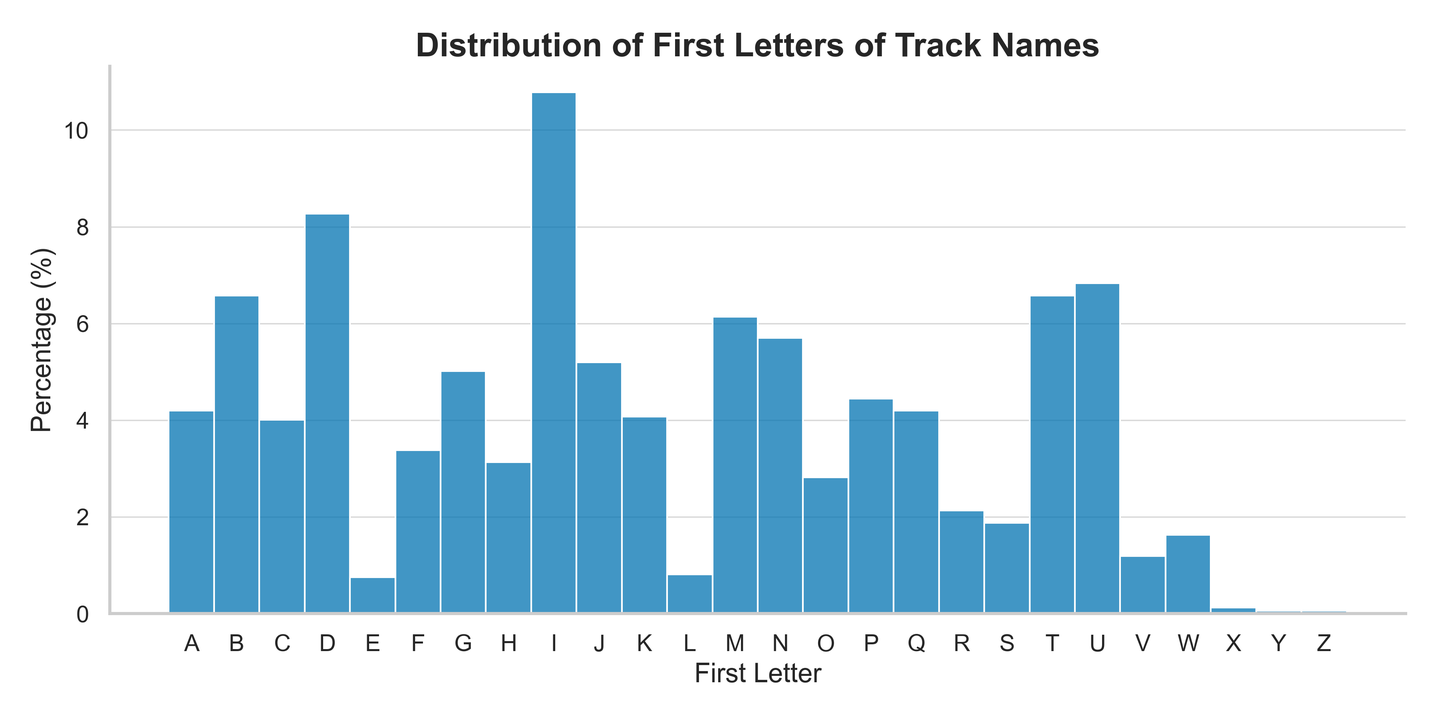
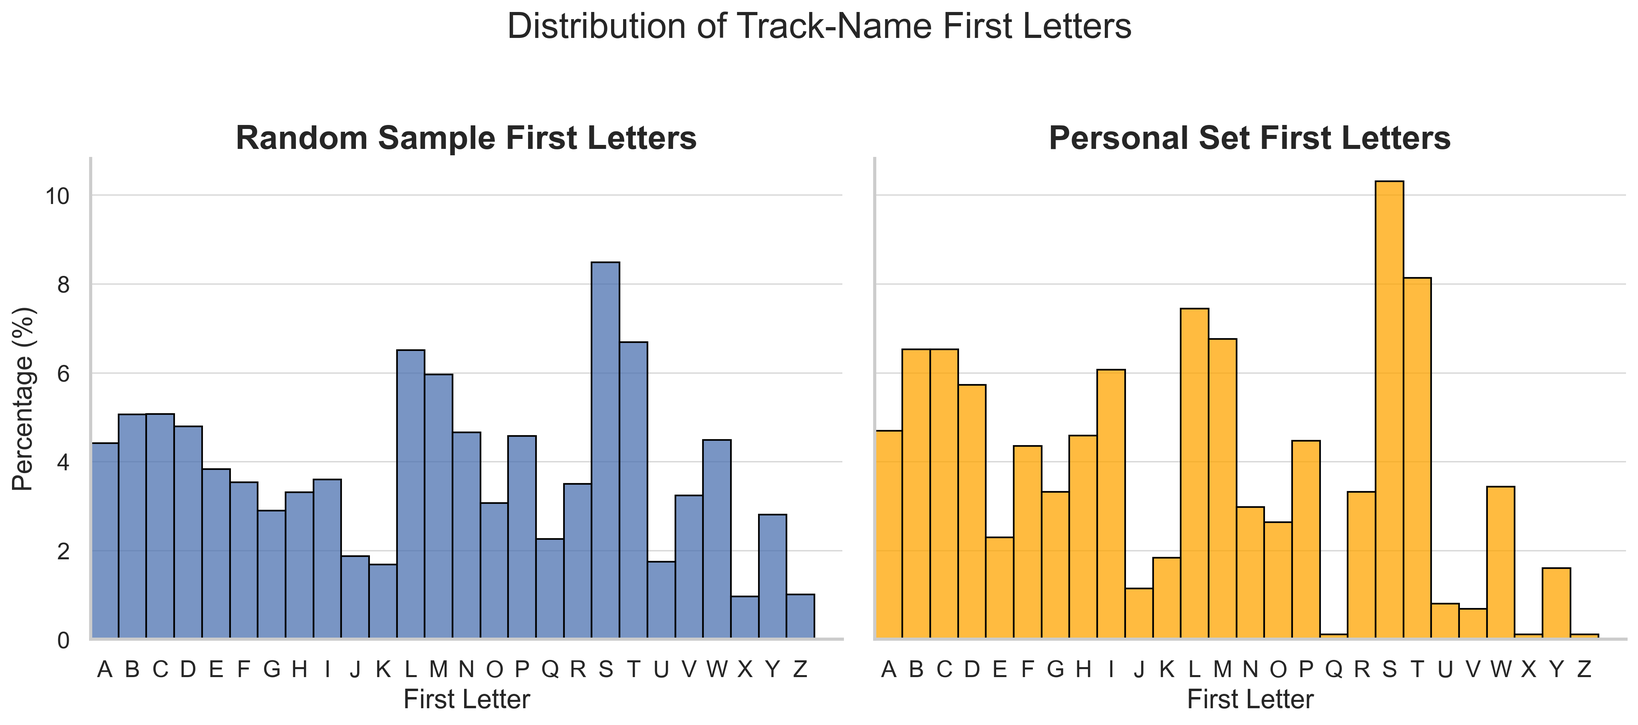
changed visuals

diff --git a/_projects/splang.md b/_projects/splang.md
@@ -70,7 +70,7 @@ The first question that came to mind was how to represent the commands, there ar
     </div>
 </div>
 
-As we can see from the chart above, the first letter of a song's title is not evenly distributed, with a large number of songs starting with the letter "I" and none in my library with the letter "Y" or "Z". My goal was to ensure the programmer had a good selection of songs to choose from, and didn't necessarily have to spend a long time searching for songs, so the first letter of any alphabetical attribute was not a good choice.
+As we can see from the chart above, the first letter of a song's title is not evenly distributed, with a large number of songs starting with the letter "S" and barely any in my library with the letter "Q", "X", or "Z". My goal was to ensure the programmer had a good selection of songs to choose from, and didn't necessarily have to spend a long time searching for songs, so the first letter of any alphabetical attribute was not a good choice.
 
 I also ruled out using the genre, as we should be able to create a coherent playlist without having to constantly switch genres. In terms of data visible to the programmer, the only attribute left was the **duration** of the song. This attribute is visible to the programmer formatted as **mm:ss** in the IDE, but is visible in the API as **milliseconds**. As such, we will have to convert the duration in milliseconds to the visible seconds format, rounding our values to the nearest second and converting times such as 1:60 to 2:00. After extensive testing, I was able to reverse engineer the conversion from milliseconds to seconds, as done in the IDE, to have the correct seconds value.
 
@@ -79,12 +79,12 @@ In the same way, we need to ensure that the distribution of these seconds values
 <div class="container l-page">
     <div class="row align-items-center text-center">
         <div class="col">
-            {% include figure.liquid loading="lazy" zoomable=true path="assets/img/splang/seconds_distribution_personal.png" alt="Seconds Distribution Personal" %}
-            <div class="caption">My Personal Library Seconds Distribution</div>
+            {% include figure.liquid loading="lazy" zoomable=true path="assets/img/splang/2d_histogram.png" alt="2D Histogram" %}
+            <div class="caption">2D Histogram of seconds values</div>
         </div>
         <div class="col">
-            {% include figure.liquid loading="lazy" zoomable=true path="assets/img/splang/seconds_distribution_random.png" alt="Seconds Distribution Random" %}
-            <div class="caption">Randomly Sampled Library Seconds Distribution</div>
+            {% include figure.liquid loading="lazy" zoomable=true path="assets/img/splang/track_duration_distribution.png" alt="Track Duration Distribution" %}
+            <div class="caption">Distribution of track lengths</div>
         </div>
     </div>
 </div>
@@ -99,78 +99,78 @@ As such, I give you **Splang v1.0 Language Reference**.
 
 # Splang v1.0 Language Reference
 
-| **Keyterm:** | Description                                                                           |
-| ------------ | ------------------------------------------------------------------------------------- |
-| LS           | Last Second's place, e.g 3:45 --> 5                                                   |
-| FS           | First Second's place , e.g 3:45 --> 4                                                 |
-| TrackID      | The unique ID of a song in Spotify's database.                                        |
-| (song + n)   | The song n positions after the current song in the playlist.                          |
-| Stack        | A LIFO data structure, operates on single elements.                                   |
-| Heap         | A data structure that stores values at a specific index, operates on single elements. |
-| RA Stack     | A LIFO data structure that stores return addresses for function calls.                |
+| **Keyterm** | **Description**                                                                       |
+| ----------- | ------------------------------------------------------------------------------------- |
+| LS          | Last Second's place, e.g 3:45 --> 5                                                   |
+| FS          | First Second's place , e.g 3:45 --> 4                                                 |
+| TrackID     | The unique ID of a song in Spotify's database.                                        |
+| (song + n)  | The song n positions after the current song in the playlist.                          |
+| Stack       | A LIFO data structure, operates on single elements.                                   |
+| Heap        | A data structure that stores values at a specific index, operates on single elements. |
+| RA Stack    | A LIFO data structure that stores return addresses for function calls.                |
 
-| Time | Command           | Parameter(s) | Description                                                                                                                        |
-| ---- | ----------------- | ------------ | ---------------------------------------------------------------------------------------------------------------------------------- |
-| 0:00 | `NOP`             | None         | No operation, does nothing.                                                                                                        |
-| 0:01 | `HALT`            | None         | Halts the program.                                                                                                                 |
-| 0:02 | `LABEL`           | 1            | Label, defines the next song's trackID as a label.                                                                                 |
-| 0:03 | `JUMP`            | 1            | Jumps to the label defined by the (song + 1) trackID.                                                                              |
-| 0:04 | `JUMPZ`           | 1            | Jumps to the label defined by the (song + 1) trackID if the top of the stack is 0.                                                 |
-| 0:05 | `JUMPNZ`          | 1            | Jumps to the label defined by the (song + 1) trackID if the top of the stack is not 0.                                             |
-| 0:06 | `JUMPZ_HEAP`      | 2            | Jumps to the label defined by the (song + 1) trackID if the value at the index defined by the (song + 2) trackID in heap is 0.     |
-| 0:07 | `JUMPNZ_HEAP`     | 2            | Jumps to the label defined by the (song + 1) trackID if the value at the index defined by the (song + 2) trackID in heap is not 0. |
-| 0:08 | `CALL`            | 1            | Pushes return address to RA stack and jumps to the label defined by the (song + 1) trackID.                                        |
-| 0:09 | `RETURN`          | None         | Pops the return address from the RA stack and jumps to it.                                                                         |
-| 0:10 | `ADD`             | None         | Adds the top two elements of the stack and pushes the result.                                                                      |
-| 0:11 | `SUB`             | None         | Subtracts the top two elements of the stack and pushes the result.                                                                 |
-| 0:12 | `MUL`             | None         | Multiplies the top two elements of the stack and pushes the result.                                                                |
-| 0:13 | `DIV`             | None         | Divides the top two elements of the stack and pushes the result.                                                                   |
-| 0:14 | `MOD`             | None         | Modulus of the top two elements of the stack (b mod a) and pushes the result.                                                      |
-| 0:15 | `POW`             | None         | Raises the top element of the stack to the power of the second top element and pushes the result.                                  |
-| 0:16 | `Not_implemented` | None         | Not implemented.                                                                                                                   |
-| 0:17 | `Not_implemented` | None         | Not implemented.                                                                                                                   |
-| 0:18 | `Not_implemented` | None         | Not implemented.                                                                                                                   |
-| 0:19 | `Not_implemented` | None         | Not implemented.                                                                                                                   |
-| 0:20 | `PUSH_LS`         | 1            | Pushes the LS of the next song's duration to the stack.                                                                            |
-| 0:21 | `PUSH_FS`         | 1            | Pushes the FS of the next song's duration to the stack.                                                                            |
-| 0:22 | `SHIFT_R_LS`      | 1            | Shifts the value of the top element of the stack to the right, adding the LS of the next song's duration.                          |
-| 0:23 | `SHIFT_L_LS`      | 1            | Shifts the value of the top element of the stack to the left, adding the LS of the next song's duration.                           |
-| 0:24 | `SHIFT_R_FS`      | 1            | Shifts the value of the top element of the stack to the right, adding the FS of the next song's duration.                          |
-| 0:25 | `SHIFT_L_FS`      | 1            | Shifts the value of the top element of the stack to the left, adding the FS of the next song's duration.                           |
-| 0:26 | `POP`             | None         | Pops the top element of the stack.                                                                                                 |
-| 0:27 | `DUP`             | None         | Duplicates the top element of the stack.                                                                                           |
-| 0:28 | `SWAP`            | None         | Swaps the top two elements of the stack.                                                                                           |
-| 0:29 | `Not_implemented` | None         | Not implemented.                                                                                                                   |
-| 0:30 | `STORE`           | 1            | Stores the top element of the stack in heap at the index defined by the next song's trackID.                                       |
-| 0:31 | `STORE_TOP`       | 0            | Stores the top element of the stack in the heap at the index defined by the second element of the stack.                           |
-| 0:32 | `LOAD`            | 1            | Loads the value at the index defined by the next song's trackID from heap to the stack.                                            |
-| 0:33 | `LOAD_TOP`        | 0            | Loads the value at the index defined by the top element of the stack from heap to the stack.                                       |
-| 0:34 | `INC`             | 1            | Increments the value at the index defined by the next song's trackID in heap.                                                      |
-| 0:35 | `DEC`             | 1            | Decrements the value at the index defined by the next song's trackID in heap.                                                      |
-| 0:36 | `Not_implemented` | None         | Not implemented.                                                                                                                   |
-| 0:37 | `Not_implemented` | None         | Not implemented.                                                                                                                   |
-| 0:38 | `Not_implemented` | None         | Not implemented.                                                                                                                   |
-| 0:39 | `Not_implemented` | None         | Not implemented.                                                                                                                   |
-| 0:40 | `STDIN_INT`       | None         | Reads an integer until a newline from stdin and pushes it to the stack.                                                            |
-| 0:41 | `STDIN`           | None         | Reads a string until a newline from stdin and pushes each character to the stack as an ASCII value.                                |
-| 0:42 | `STDOUT_INT`      | None         | Pops the top element of the stack and prints it to stdout as an integer.                                                           |
-| 0:43 | `STDOUT`          | None         | Pops the top element of the stack and prints it to stdout as an ASCII character.                                                   |
-| 0:44 | `READ_CHAR`       | 1            | Reads the first character of the next song's title and pushes it to the stack as an ASCII value.                                   |
-| 0:45 | `Not_implemented` | None         | Not implemented.                                                                                                                   |
-| 0:46 | `Not_implemented` | None         | Not implemented.                                                                                                                   |
-| 0:47 | `Not_implemented` | None         | Not implemented.                                                                                                                   |
-| 0:48 | `Not_implemented` | None         | Not implemented.                                                                                                                   |
-| 0:49 | `Not_implemented` | None         | Not implemented.                                                                                                                   |
-| 0:50 | `AND`             | None         | Logical AND of the top two elements of the stack and pushes the result.                                                            |
-| 0:51 | `OR`              | None         | Logical OR of the top two elements of the stack and pushes the result.                                                             |
-| 0:52 | `XOR`             | None         | Logical XOR of the top two elements of the stack and pushes the result.                                                            |
-| 0:53 | `NOT`             | None         | Logical NOT of the top element of the stack and pushes the result.                                                                 |
-| 0:54 | `EQUAL`           | None         | Checks if the top two elements of the stack are equal and pushes the result.                                                       |
-| 0:55 | `NOT_EQUAL`       | None         | Checks if the top two elements of the stack are not equal and pushes the result.                                                   |
-| 0:56 | `GREATER`         | None         | Checks if the top element of the stack is greater than the second top element and pushes the result.                               |
-| 0:57 | `LESS`            | None         | Checks if the top element of the stack is less than the second top element and pushes the result.                                  |
-| 0:58 | `GREATER_EQUAL`   | None         | Checks if the top element of the stack is greater than or equal to the second top element and pushes the result.                   |
-| 0:59 | `LESS_EQUAL`      | None         | Checks if the top element of the stack is less than or equal to the second top element and pushes the result.                      |
+| **Time** | **Command**       | **Parameter(s)** | **Description**                                                                                                                    |
+| -------- | ----------------- | ---------------- | ---------------------------------------------------------------------------------------------------------------------------------- |
+| 0:00     | `NOP`             | None             | No operation, does nothing.                                                                                                        |
+| 0:01     | `HALT`            | None             | Halts the program.                                                                                                                 |
+| 0:02     | `LABEL`           | 1                | Label, defines the (song + 1)'s trackID as a label.                                                                                |
+| 0:03     | `JUMP`            | 1                | Jumps to the label defined by the (song + 1) trackID.                                                                              |
+| 0:04     | `JUMPZ`           | 1                | Jumps to the label defined by the (song + 1) trackID if the top of the stack is 0.                                                 |
+| 0:05     | `JUMPNZ`          | 1                | Jumps to the label defined by the (song + 1) trackID if the top of the stack is not 0.                                             |
+| 0:06     | `JUMPZ_HEAP`      | 2                | Jumps to the label defined by the (song + 1) trackID if the value at the index defined by the (song + 2) trackID in heap is 0.     |
+| 0:07     | `JUMPNZ_HEAP`     | 2                | Jumps to the label defined by the (song + 1) trackID if the value at the index defined by the (song + 2) trackID in heap is not 0. |
+| 0:08     | `CALL`            | 1                | Pushes return address to RA stack and jumps to the label defined by the (song + 1) trackID.                                        |
+| 0:09     | `RETURN`          | None             | Pops the return address from the RA stack and jumps to it.                                                                         |
+| 0:10     | `ADD`             | None             | Adds the top two elements of the stack and pushes the result.                                                                      |
+| 0:11     | `SUB`             | None             | Subtracts the top two elements of the stack and pushes the result.                                                                 |
+| 0:12     | `MUL`             | None             | Multiplies the top two elements of the stack and pushes the result.                                                                |
+| 0:13     | `DIV`             | None             | Divides the top two elements of the stack and pushes the result.                                                                   |
+| 0:14     | `MOD`             | None             | Modulus of the top two elements of the stack (b mod a) and pushes the result.                                                      |
+| 0:15     | `POW`             | None             | Raises the top element of the stack to the power of the second top element and pushes the result.                                  |
+| 0:16     | `Not_implemented` | None             | Not implemented.                                                                                                                   |
+| 0:17     | `Not_implemented` | None             | Not implemented.                                                                                                                   |
+| 0:18     | `Not_implemented` | None             | Not implemented.                                                                                                                   |
+| 0:19     | `Not_implemented` | None             | Not implemented.                                                                                                                   |
+| 0:20     | `PUSH_LS`         | 1                | Pushes the LS of the (song + 1) duration to the stack.                                                                             |
+| 0:21     | `PUSH_FS`         | 1                | Pushes the FS of the (song + 1) duration to the stack.                                                                             |
+| 0:22     | `SHIFT_R_LS`      | 1                | Shifts the value of the top element of the stack to the right, adding the LS of the (song + 1)'s duration.                         |
+| 0:23     | `SHIFT_L_LS`      | 1                | Shifts the value of the top element of the stack to the left, adding the LS of the (song + 1)'s duration.                          |
+| 0:24     | `SHIFT_R_FS`      | 1                | Shifts the value of the top element of the stack to the right, adding the FS of the (song + 1)'s duration.                         |
+| 0:25     | `SHIFT_L_FS`      | 1                | Shifts the value of the top element of the stack to the left, adding the FS of the (song + 1)'s duration.                          |
+| 0:26     | `POP`             | None             | Pops the top element of the stack.                                                                                                 |
+| 0:27     | `DUP`             | None             | Duplicates the top element of the stack.                                                                                           |
+| 0:28     | `SWAP`            | None             | Swaps the top two elements of the stack.                                                                                           |
+| 0:29     | `Not_implemented` | None             | Not implemented.                                                                                                                   |
+| 0:30     | `STORE`           | 1                | Stores the top element of the stack in heap at the index defined by the (song + 1)'s trackID.                                      |
+| 0:31     | `STORE_TOP`       | 0                | Stores the top element of the stack in the heap at the index defined by the second element of the stack.                           |
+| 0:32     | `LOAD`            | 1                | Loads the value at the index defined by the (song + 1)'s trackID from heap to the stack.                                           |
+| 0:33     | `LOAD_TOP`        | None             | Loads the value at the index defined by the top element of the stack from heap to the stack.                                       |
+| 0:34     | `INC`             | 1                | Increments the value at the index defined by the (song + 1)'s trackID in heap.                                                     |
+| 0:35     | `DEC`             | 1                | Decrements the value at the index defined by the (song + 1)'s trackID in heap.                                                     |
+| 0:36     | `Not_implemented` | None             | Not implemented.                                                                                                                   |
+| 0:37     | `Not_implemented` | None             | Not implemented.                                                                                                                   |
+| 0:38     | `Not_implemented` | None             | Not implemented.                                                                                                                   |
+| 0:39     | `Not_implemented` | None             | Not implemented.                                                                                                                   |
+| 0:40     | `STDIN_INT`       | None             | Reads an integer until a newline from stdin and pushes it to the stack.                                                            |
+| 0:41     | `STDIN`           | None             | Reads a string until a newline from stdin and pushes each character to the stack as an ASCII value.                                |
+| 0:42     | `STDOUT_INT`      | None             | Pops the top element of the stack and prints it to stdout as an integer.                                                           |
+| 0:43     | `STDOUT`          | None             | Pops the top element of the stack and prints it to stdout as an ASCII character.                                                   |
+| 0:44     | `READ_CHAR`       | 1                | Reads the first character of the (song + 1)'s title and pushes it to the stack as an ASCII value.                                  |
+| 0:45     | `Not_implemented` | None             | Not implemented.                                                                                                                   |
+| 0:46     | `Not_implemented` | None             | Not implemented.                                                                                                                   |
+| 0:47     | `Not_implemented` | None             | Not implemented.                                                                                                                   |
+| 0:48     | `Not_implemented` | None             | Not implemented.                                                                                                                   |
+| 0:49     | `Not_implemented` | None             | Not implemented.                                                                                                                   |
+| 0:50     | `AND`             | None             | Logical AND of the top two elements of the stack and pushes the result.                                                            |
+| 0:51     | `OR`              | None             | Logical OR of the top two elements of the stack and pushes the result.                                                             |
+| 0:52     | `XOR`             | None             | Logical XOR of the top two elements of the stack and pushes the result.                                                            |
+| 0:53     | `NOT`             | None             | Logical NOT of the top element of the stack and pushes the result.                                                                 |
+| 0:54     | `EQUAL`           | None             | Checks if the top two elements of the stack are equal and pushes the result.                                                       |
+| 0:55     | `NOT_EQUAL`       | None             | Checks if the top two elements of the stack are not equal and pushes the result.                                                   |
+| 0:56     | `GREATER`         | None             | Checks if the top element of the stack is greater than the second top element and pushes the result.                               |
+| 0:57     | `LESS`            | None             | Checks if the top element of the stack is less than the second top element and pushes the result.                                  |
+| 0:58     | `GREATER_EQUAL`   | None             | Checks if the top element of the stack is greater than or equal to the second top element and pushes the result.                   |
+| 0:59     | `LESS_EQUAL`      | None             | Checks if the top element of the stack is less than or equal to the second top element and pushes the result.                      |
 
 # Issues
 
